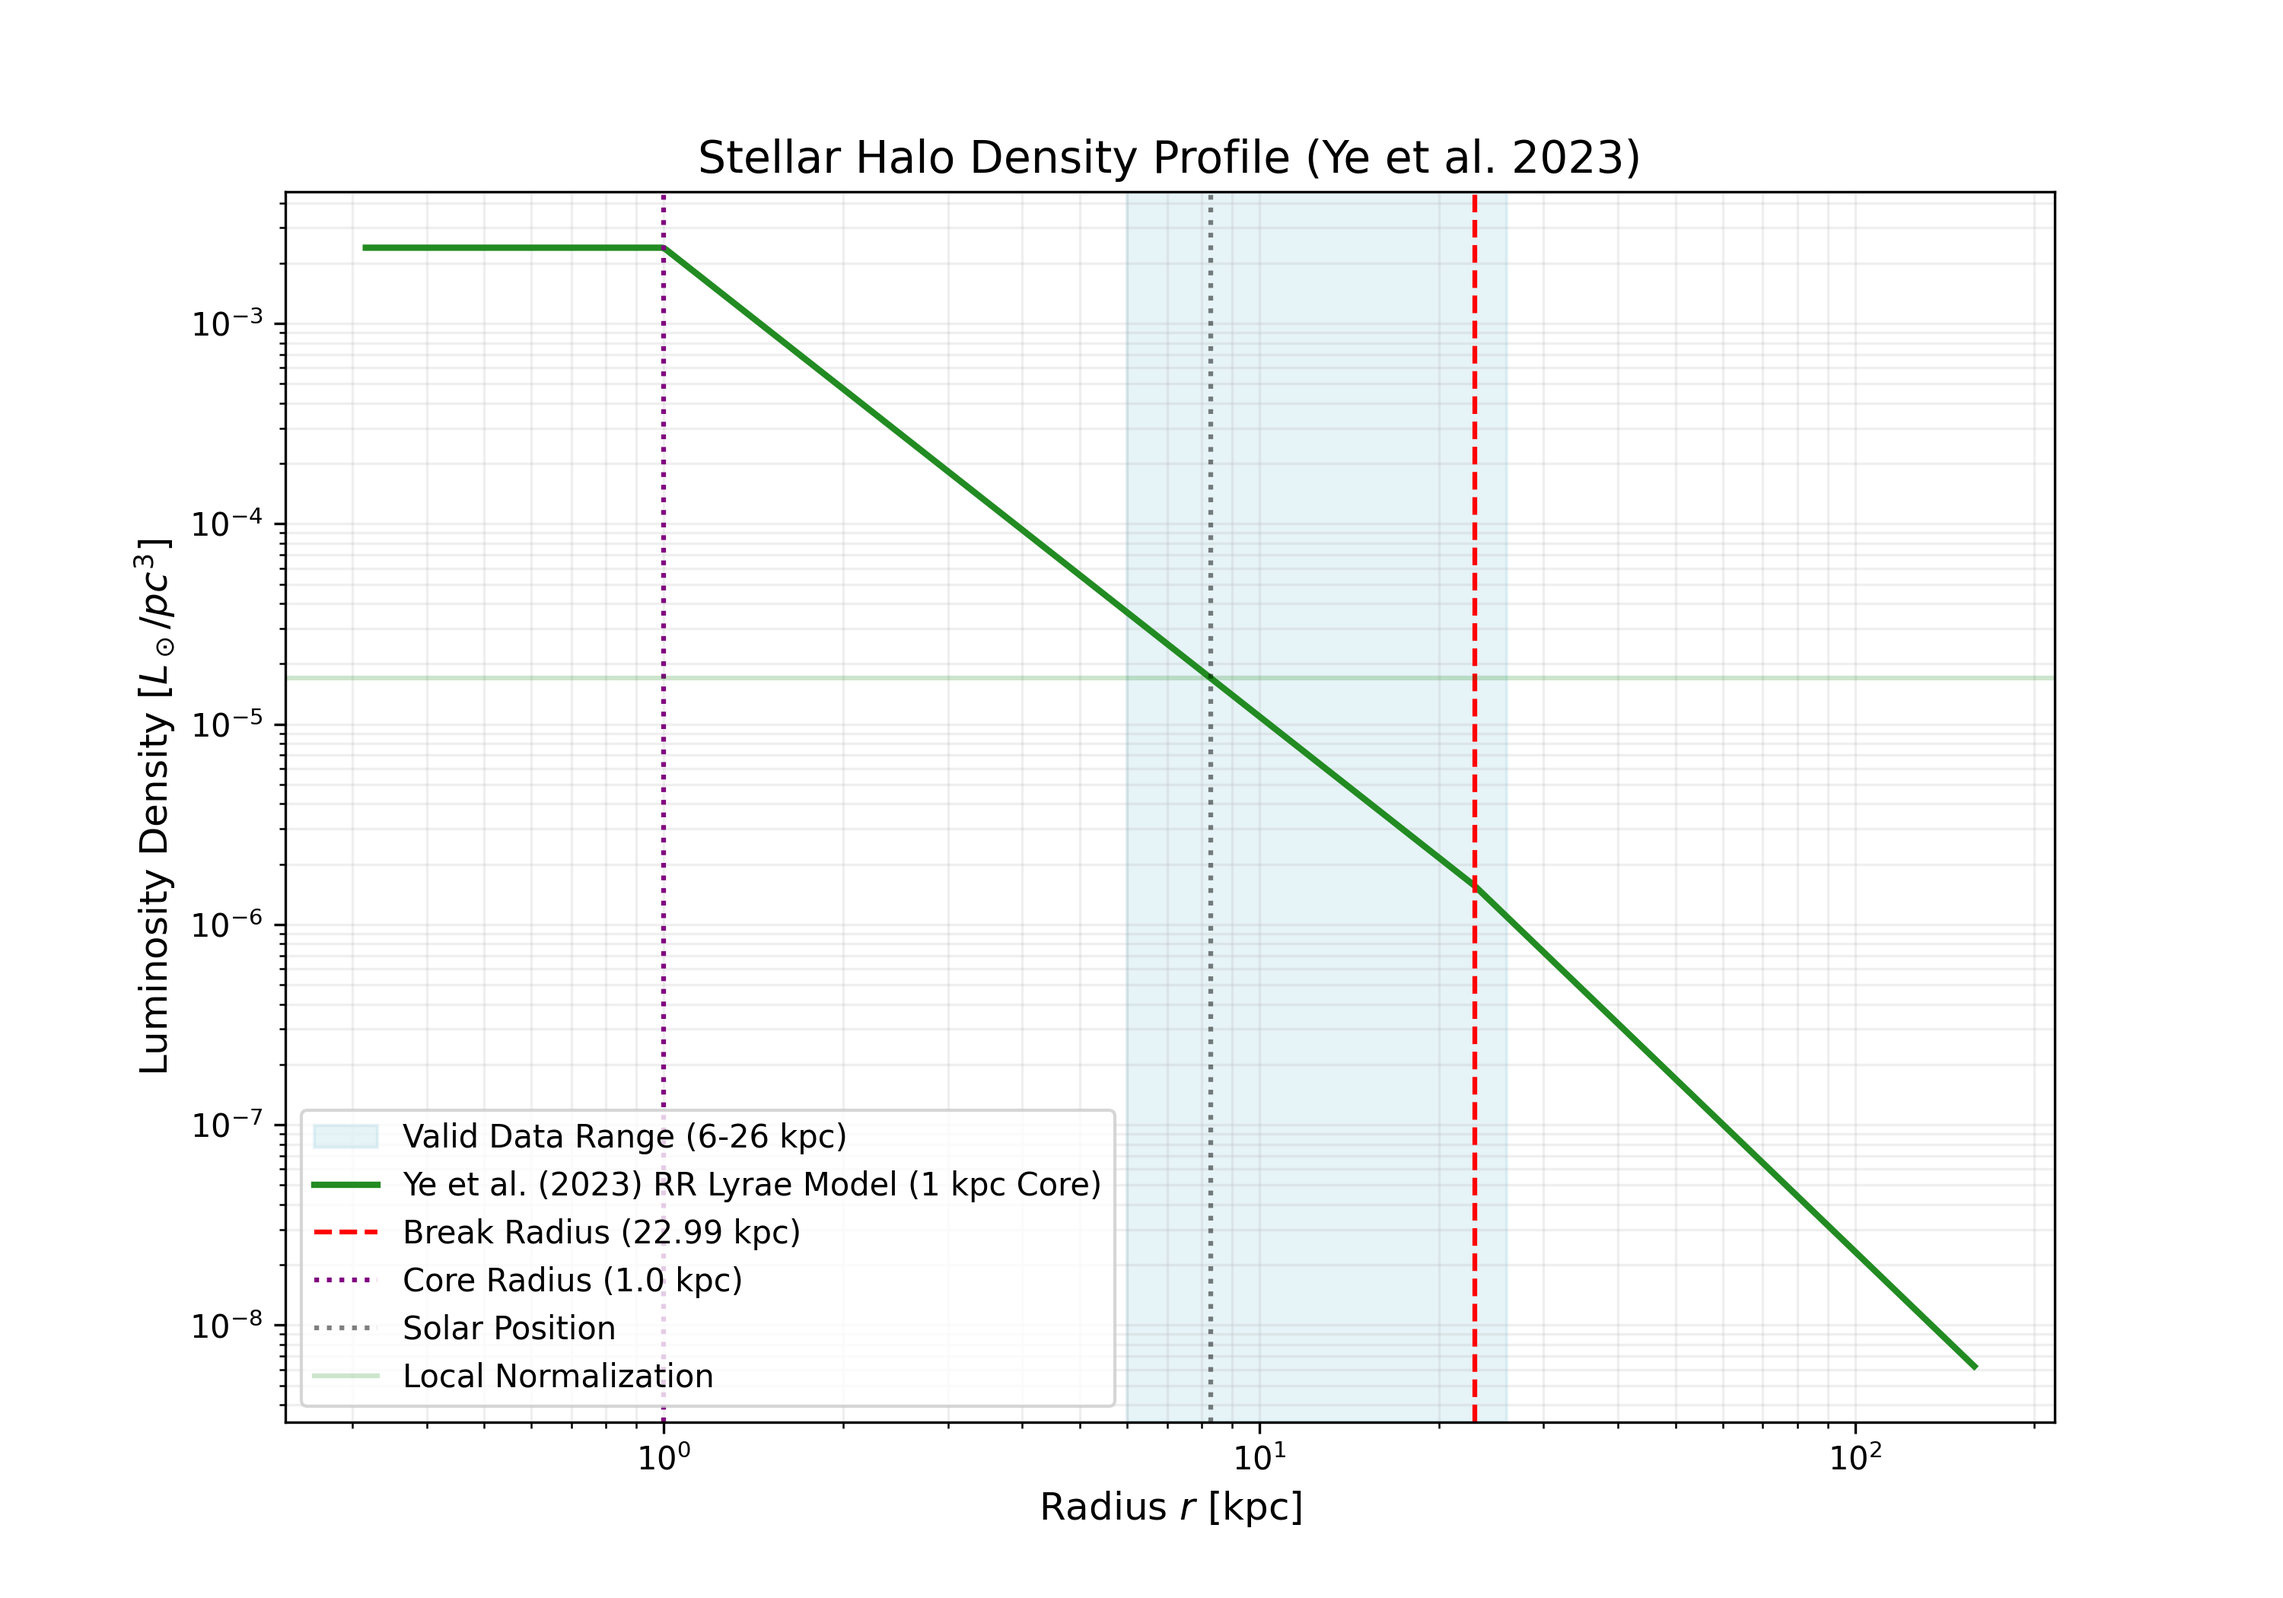
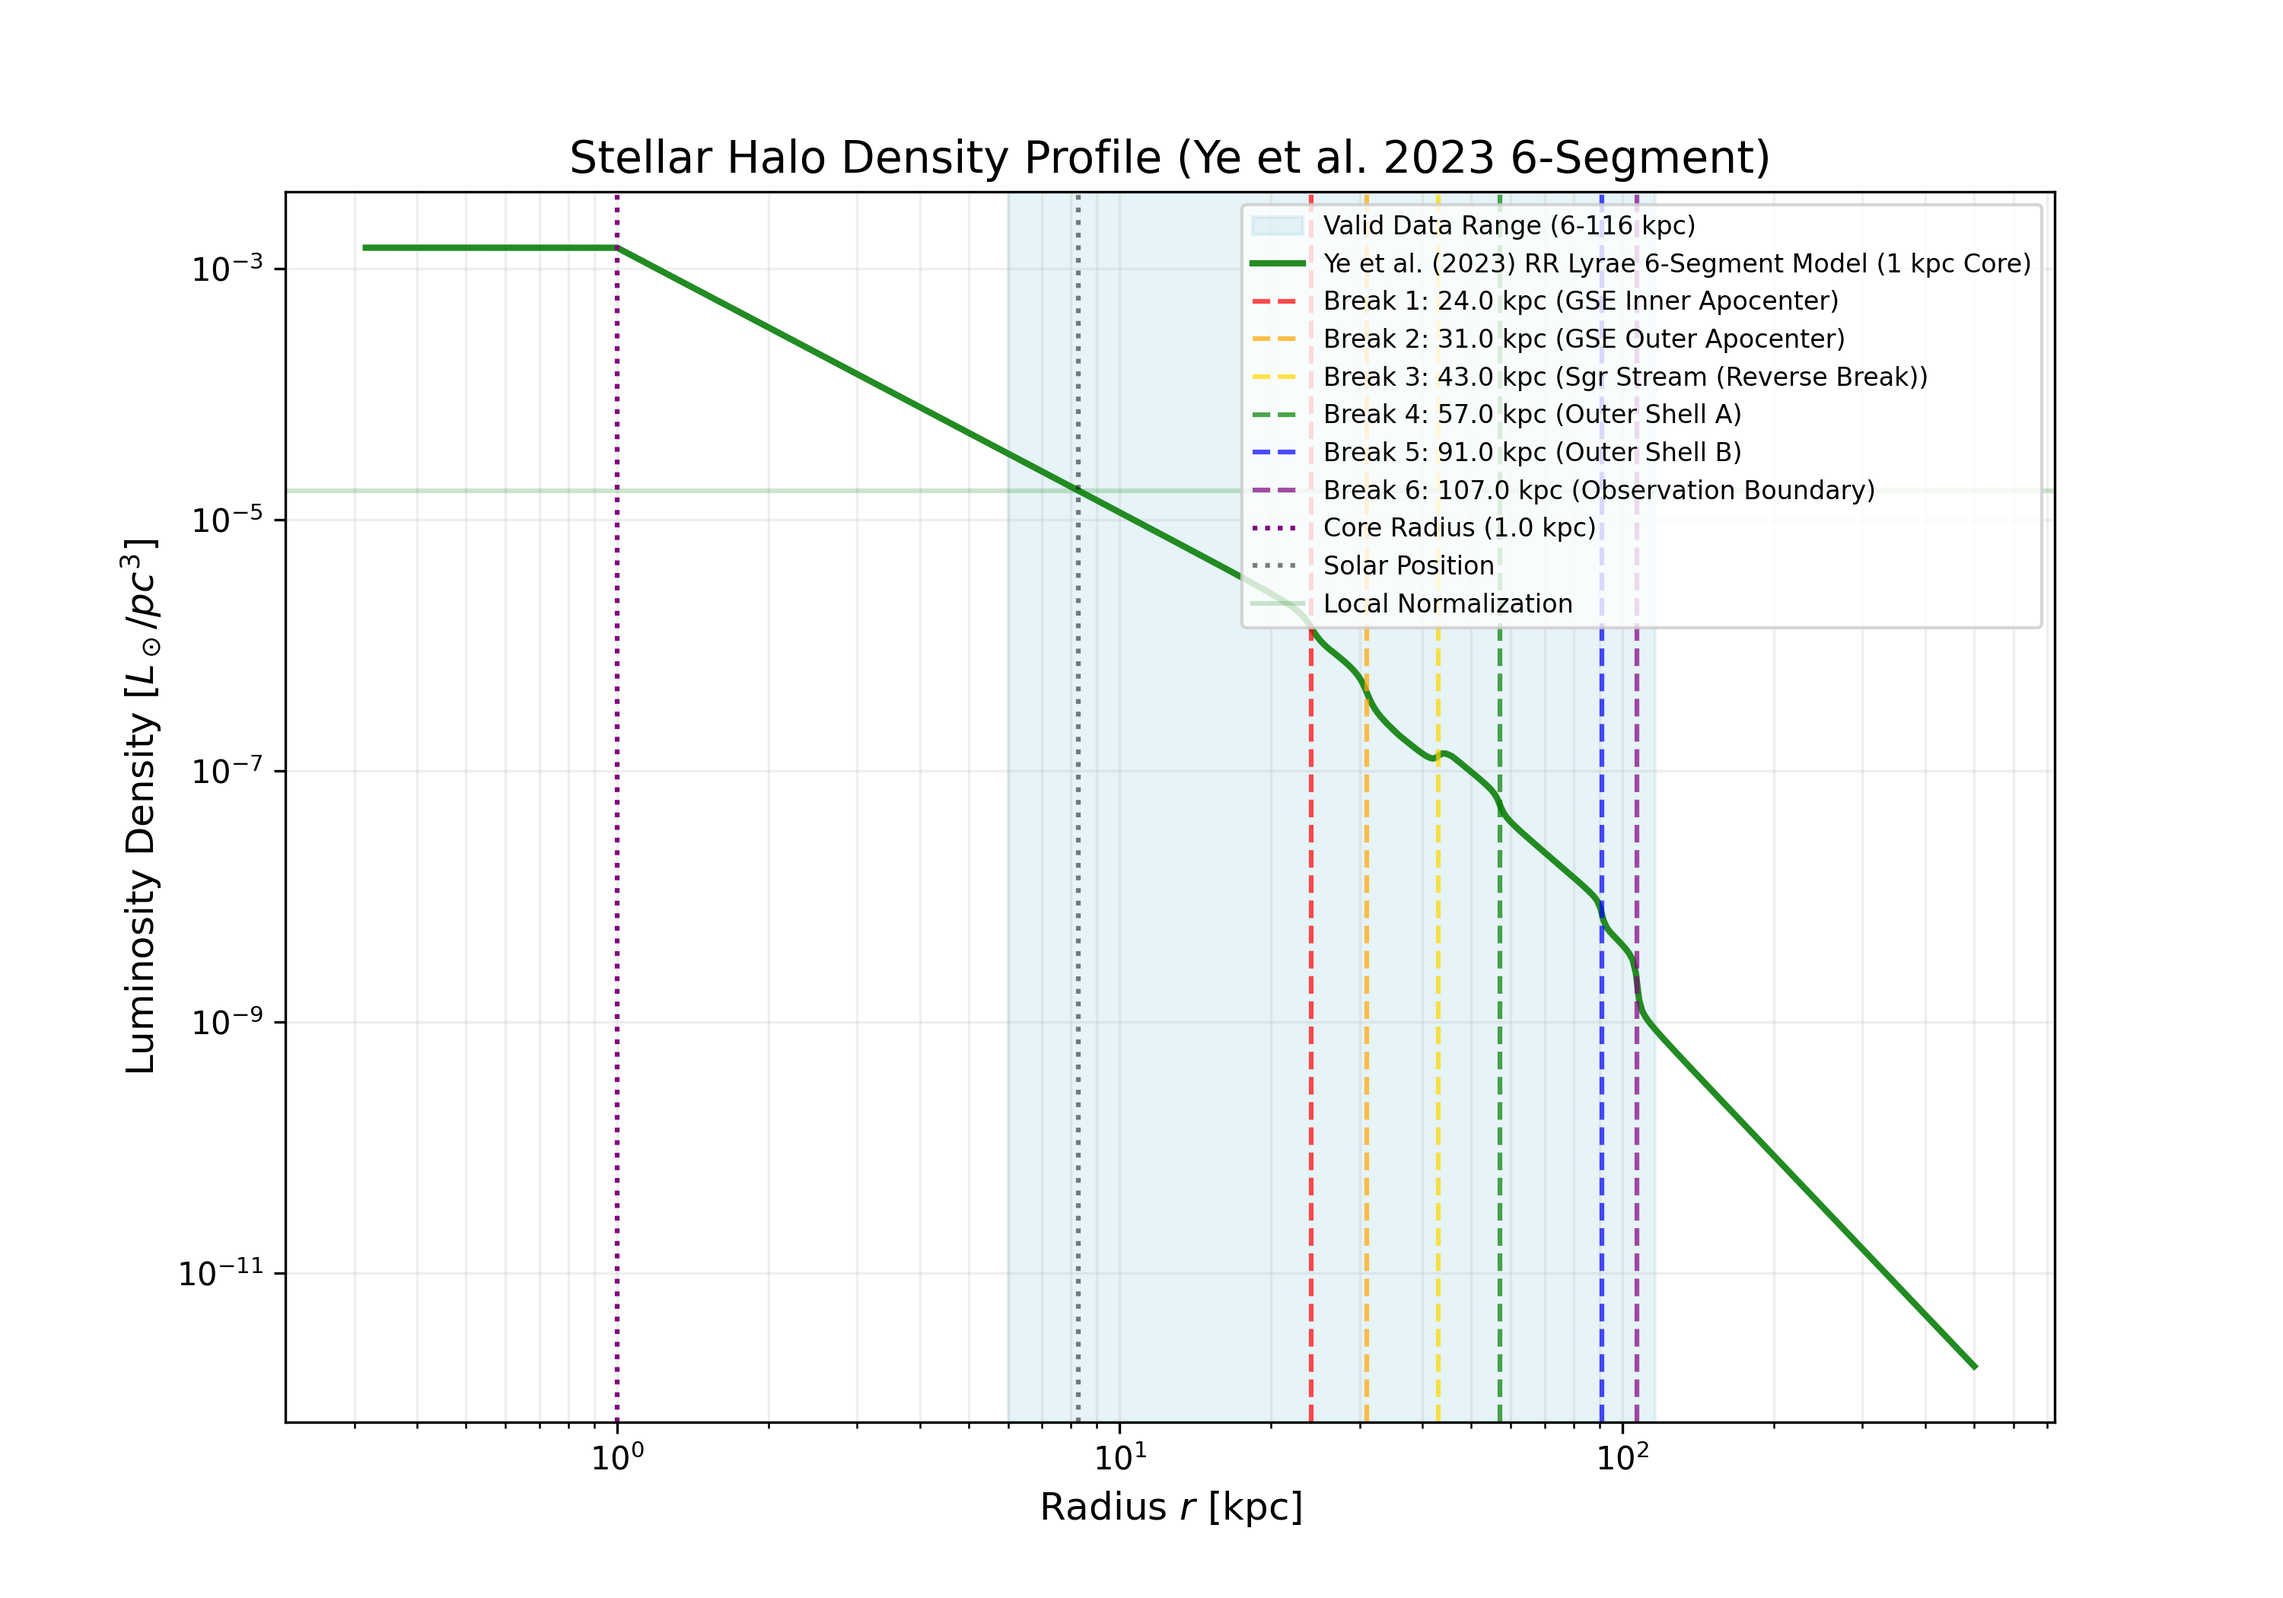
Add files via upload
Ye et al 2023 paper added -- it's the complex 6-segment powerlaw with density variations to model the shells

diff --git a/assets/ye2023_density_model.py b/assets/ye2023_density_model.py
@@ -1,75 +1,117 @@
 import numpy as np
 import matplotlib.pyplot as plt
+from scipy.integrate import quad
 
 def calculate_ye2023_halo():
-    # Parameters from Ye et al. (2023) - MNRAS 525, 2472
-    # Model: Broken Power Law (Gaia DR3 RR Lyrae)
-    alpha_in = 2.34
-    alpha_out = 2.86
-    r_break = 22.99
+    # Parameters from Table 1 of Ye et al. (2023)
+    bins = [
+        {"range": (6.0, 26.0), "r_break": 24.0, "n": 2.1, "q": 0.68, "delta_n": 0.5, "name": "GSE Inner Apocenter"},
+        {"range": (26.0, 36.0), "r_break": 31.0, "n": 2.9, "q": 0.86, "delta_n": 0.5, "name": "GSE Outer Apocenter"},
+        {"range": (36.0, 46.0), "r_break": 43.0, "n": 3.4, "q": 0.81, "delta_n": -0.3, "name": "Sgr Stream (Reverse Break)"},
+        {"range": (46.0, 76.0), "r_break": 57.0, "n": 3.2, "q": 0.84, "delta_n": 0.2, "name": "Outer Shell A"},
+        {"range": (76.0, 96.0), "r_break": 91.0, "n": 3.4, "q": 0.91, "delta_n": 0.2, "name": "Outer Shell B"},
+        {"range": (96.0, 116.0), "r_break": 107.0, "n": 3.8, "q": 0.90, "delta_n": 0.4, "name": "Observation Boundary"},
+    ]
+
     r_core = 1.0   # 1 kpc constant density core (project requirement)
-    q = 0.81       # Constant flattening
     R_sun = 8.275 
 
     # User local norm
     rho_local_Lsun_pc3 = 1.7e-5
     rho_local_Lsun_kpc3 = rho_local_Lsun_pc3 * (1000**3)
 
-    # Broken Power Law Profile with Core
-    def profile(r):
-        if r < r_core:
-            r_eff = r_core
-        else:
-            r_eff = r
-            
-        if r_eff < r_break:
-            return r_eff**-alpha_in
-        else:
-            return (r_break**(alpha_out - alpha_in)) * (r_eff**-alpha_out)
+    # Exponent function g(r_e)
+    def g_func(r_e, n, delta_n, r_break, a=0.0):
+        return n + 0.5 * delta_n + (delta_n / np.pi) * np.arctan(10.0**a * (r_e - r_break))
 
-    # Normalization at the Sun
-    norm_at_sun = profile(R_sun)
-    rho_0 = rho_local_Lsun_kpc3 / norm_at_sun
+    # Compute continuity coefficients rho_rel (relative to rho_rel_1 = 1.0)
+    rho_rel = [1.0]
+    for idx in range(1, len(bins)):
+        prev_bin = bins[idx-1]
+        curr_bin = bins[idx]
+        r_bound = prev_bin["range"][1]
+        
+        g_prev = g_func(r_bound, prev_bin["n"], prev_bin["delta_n"], prev_bin["r_break"])
+        density_bound = rho_rel[-1] * (R_sun / r_bound) ** g_prev
+        
+        g_curr = g_func(r_bound, curr_bin["n"], curr_bin["delta_n"], curr_bin["r_break"])
+        rho_rel_curr = density_bound / ((R_sun / r_bound) ** g_curr)
+        rho_rel.append(rho_rel_curr)
 
-    # Analytical Integration for Luminosity
-    # L = 4 * pi * q * Integral[ rho(r) * r^2 dr ]
-    
-    # Numerical Integration for Luminosity (integrated to 500 kpc)
-    def integrand(r):
-        return profile(r) * r**2
-    
-    from scipy.integrate import quad
-    res, err = quad(integrand, 0, 500)
-    L_total = 4 * np.pi * q * (rho_0) * res
+    for idx, b in enumerate(bins):
+        b["rho_rel"] = rho_rel[idx]
 
-    print(f"--- Ye et al. (2023) Gaia DR3 RR Lyrae Halo Properties ---")
-    print(f"Central Norm (rho_0 at 1kpc): {rho_0:.2e} Lsun/kpc^3")
-    print(f"Total Halo Luminosity:        {L_total:.2e} Lsun")
-    print(f"Break Radius (r_break):       {r_break} kpc")
-    print(f"Core Radius (r_core):         {r_core} kpc")
-    print(f"Inner Slope (alpha_in):       {alpha_in}")
-    print(f"Outer Slope (alpha_out):      {alpha_out}")
-    print(f"Flattening (q):               {q}")
+    # Density profile along major axis
+    def profile_rel(r):
+        r_eff = max(r, r_core)
+        # Find active bin
+        active_bin = None
+        for idx, b in enumerate(bins):
+            r_min, r_max = b["range"]
+            if idx == 0:
+                if r_eff <= r_max: active_bin = b; break
+            elif idx == len(bins) - 1:
+                if r_eff > r_min: active_bin = b; break
+            else:
+                if r_min < r_eff <= r_max: active_bin = b; break
+        
+        if active_bin is None:
+            active_bin = bins[-1]
+
+        g = g_func(r_eff, active_bin["n"], active_bin["delta_n"], active_bin["r_break"])
+        return active_bin["rho_rel"] * (R_sun / r_eff) ** g
+
+    norm_at_sun = profile_rel(R_sun) # Should be 1.0
+    rho_0 = rho_local_Lsun_kpc3 / norm_at_sun # norm factor
+
+    def integrand_1d(r):
+        r_eff = max(r, r_core)
+        active_bin = None
+        for idx, b in enumerate(bins):
+            r_min, r_max = b["range"]
+            if idx == 0:
+                if r_eff <= r_max: active_bin = b; break
+            elif idx == len(bins) - 1:
+                if r_eff > r_min: active_bin = b; break
+            else:
+                if r_min < r_eff <= r_max: active_bin = b; break
+        if active_bin is None:
+            active_bin = bins[-1]
+
+        g = g_func(r_eff, active_bin["n"], active_bin["delta_n"], active_bin["r_break"])
+        rho_val = active_bin["rho_rel"] * (R_sun / r_eff) ** g
+        return (r**2) * 4 * np.pi * active_bin["q"] * rho_0 * rho_val
+
+    res, err = quad(integrand_1d, 0, 500)
+    L_total = res
+
+    print(f"--- Ye et al. (2023) Gaia DR3 RR Lyrae 6-Segment Halo Properties ---")
+    print(f"Central Norm (rho_0 at Sun):  {rho_0:.2e} Lsun/kpc^3")
+    print(f"Total Halo Luminosity (1D):  {L_total:.2e} Lsun")
+    print(f"Valid Range:                  6.0 - 116.0 kpc")
     print(f"----------------------------------------------------------")
 
     # Plotting
-    r_vals = np.logspace(-0.5, 2.2, 500)
-    rho_vals = np.array([rho_0 * profile(r) for r in r_vals])
+    r_vals = np.logspace(-0.5, 2.7, 500)
+    rho_vals = np.array([rho_0 * profile_rel(r) for r in r_vals])
 
     plt.figure(figsize=(10, 7))
-    plt.axvspan(6, 26, color='lightblue', alpha=0.3, label='Valid Data Range (6-26 kpc)')
-    plt.loglog(r_vals, rho_vals / (1000**3), color='forestgreen', linewidth=2, label='Ye et al. (2023) RR Lyrae Model (1 kpc Core)')
+    plt.axvspan(6, 116, color='lightblue', alpha=0.3, label='Valid Data Range (6-116 kpc)')
+    plt.loglog(r_vals, rho_vals / (1000**3), color='forestgreen', linewidth=2, label='Ye et al. (2023) RR Lyrae 6-Segment Model (1 kpc Core)')
     
-    # Markers
-    plt.axvline(r_break, color='red', linestyle='--', label=f'Break Radius ({r_break} kpc)')
+    # Markers for breaks
+    colors = ['red', 'orange', 'gold', 'green', 'blue', 'purple']
+    for idx, b in enumerate(bins):
+        plt.axvline(b["r_break"], color=colors[idx], linestyle='--', alpha=0.7, label=f'Break {idx+1}: {b["r_break"]} kpc ({b["name"]})')
+
     plt.axvline(r_core, color='purple', linestyle=':', label=f'Core Radius ({r_core} kpc)')
     plt.axvline(R_sun, color='black', linestyle=':', alpha=0.5, label='Solar Position')
     plt.axhline(rho_local_Lsun_pc3, color='green', linestyle='-', alpha=0.2, label='Local Normalization')
 
-    plt.title('Stellar Halo Density Profile (Ye et al. 2023)', fontsize=14)
+    plt.title('Stellar Halo Density Profile (Ye et al. 2023 6-Segment)', fontsize=14)
     plt.xlabel('Radius $r$ [kpc]', fontsize=12)
     plt.ylabel('Luminosity Density [$L_\\odot/pc^3$]', fontsize=12)
-    plt.legend(frameon=True)
+    plt.legend(frameon=True, fontsize=8, loc='upper right')
     plt.grid(True, which="both", ls="-", alpha=0.2)
     
     plt.savefig('assets/ye2023_density_profile.png', dpi=300)
